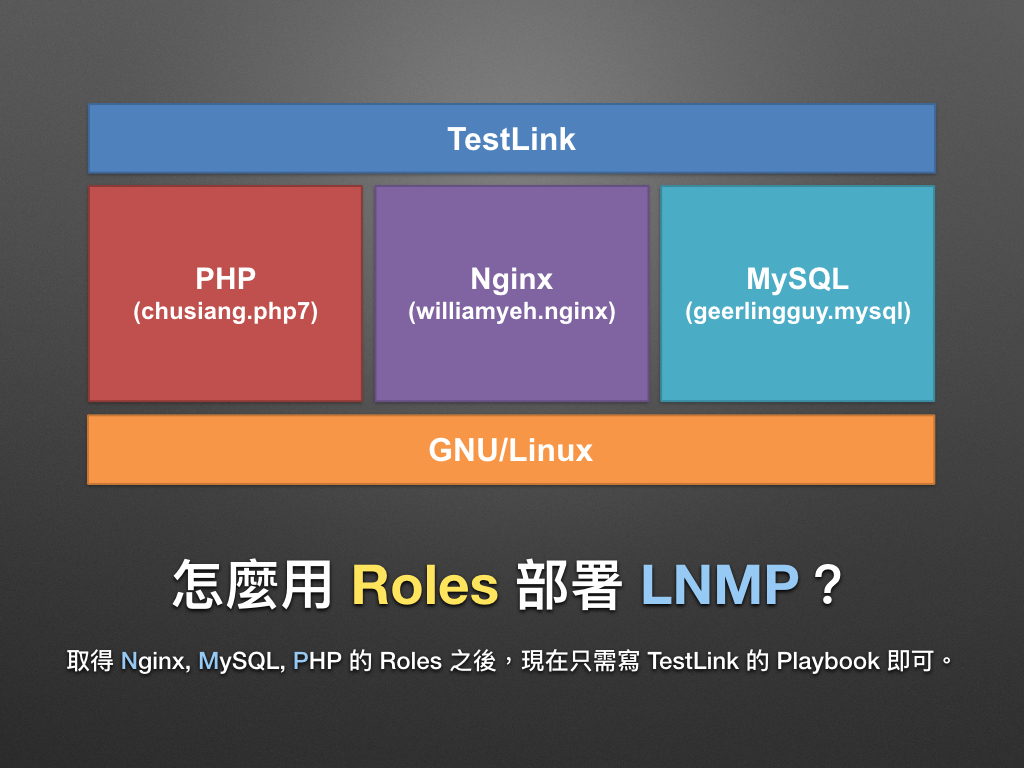
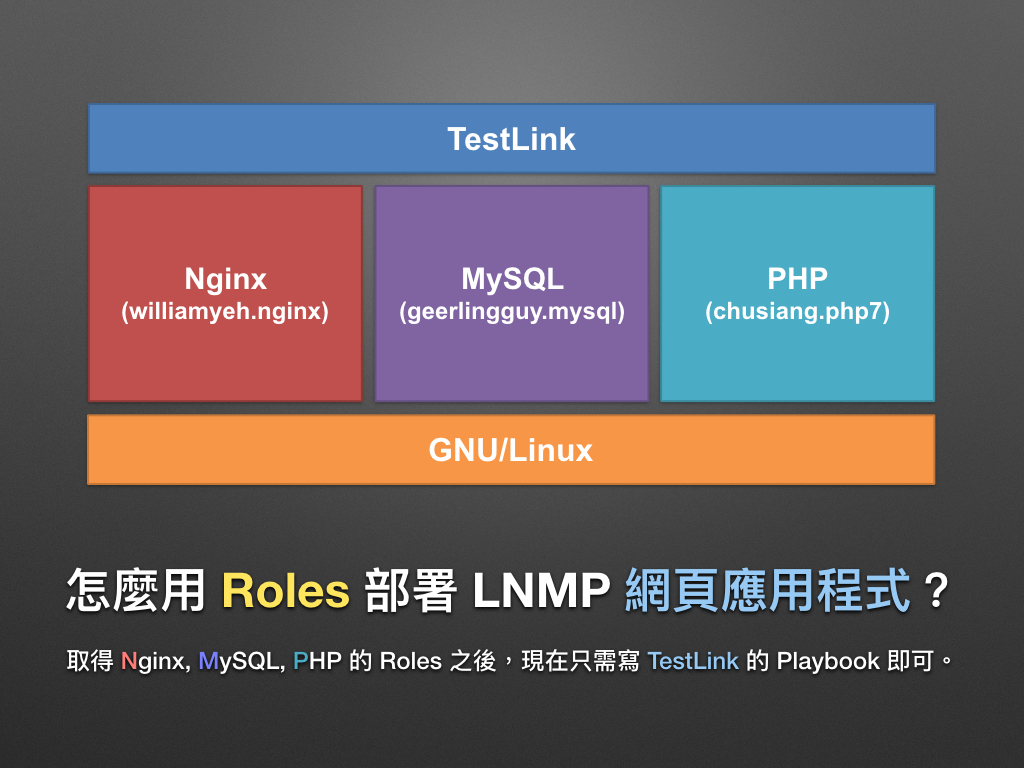
change topic

diff --git a/22.how-to-setup-lnmp-webapp-with-roles-1.md b/22.how-to-setup-lnmp-webapp-with-roles-1.md
@@ -1,8 +1,8 @@
 # 現代 IT 人一定要知道的 Ansible 自動化組態技巧
 
-## 22. 怎麼用 Roles 部署 LNMP？(上)
+## 22. 怎麼用 Roles 部署 LNMP 網頁應用程式？(上)
 
-上一章「[21. 怎麼使用 Roles？](21.how-to-use-the-roles.md)」我們探索了 [Galaxy][ansible_galaxy] (銀河)，並學習了 Roles 的使用方法，接下來凍仁教大家如何用 Roles 部署 TestLink 這套相依於 LNMP 環境的軟體。
+上一章「[21. 怎麼使用 Roles？](21.how-to-use-the-roles.md)」我們探索了 [Galaxy][ansible_galaxy] (銀河)，並學習了 Roles 的使用方法，接下來凍仁教大家如何用 Roles 部署 TestLink 這套相依於 LNMP 環境的網頁應用程式。
 
 > LNMP = Linux + Nginx + MySQL + PHP
 

diff --git a/README.md b/README.md
@@ -34,8 +34,9 @@ Ansible 是個與 Puppet, SaltStack, Chef 並駕齊驅的組態設定 (Infrastru
 1. [如何維護複雜的 Playbooks？](19.how-to-maintain-the-complex-playbooks.md)
 1. [Roles 是什麼？](20.what-is-the-roles.md)
 1. [怎麼使用 Roles？](21.how-to-use-the-roles.md)
-1. [怎麼用 Roles 部署 LNMP？(上)](22.how-to-setup-lnmp-with-roles-1.md)
-1. [怎麼用 Roles 部署 LNMP？(中)](23.how-to-setup-lnmp-with-roles-2.md)
+1. [怎麼用 Roles 部署 LNMP 網頁應用程式？(上)](22.how-to-setup-lnmp-webapp-with-roles-1.md)
+1. [怎麼用 Roles 部署 LNMP 網頁應用程式？(下)](23.how-to-setup-lnmp-webapp-with-roles-2.md)
+
 
 
   > to be continued ...

diff --git a/23.how-to-setup-lnmp-webapp-with-roles-2.md b/23.how-to-setup-lnmp-webapp-with-roles-2.md
@@ -1,6 +1,6 @@
 # 現代 IT 人一定要知道的 Ansible 自動化組態技巧
 
-## 23. 怎麼用 Roles 部署 LNMP？(中)
+## 23. 怎麼用 Roles 部署 LNMP 網頁應用程式？(下)
 
 取得 Nginx, MySQL 和 PHP 的 Roles 後，就剩部署 TestLink 了，接下來就讓凍仁來展示怎麼用 Roles 來**簡化**複雜的 Playbooks 吧！
 
@@ -265,5 +265,5 @@ $ wc -l setup.yml tasks/*
 
 ### 相關連結
 
-- [22. 怎麼用 Roles 部署 LNMP？(上)](22.how-to-setup-lnmp-with-roles-1.md)
+- [22. 怎麼用 Roles 部署 LNMP 網頁應用程式？(上)](22.how-to-setup-lnmp-webapp-with-roles-1.md)
 

diff --git a/SUMMARY.md b/SUMMARY.md
@@ -21,5 +21,5 @@
 1. [如何維護複雜的 Playbooks？](19.how-to-maintain-the-complex-playbooks.md)
 1. [Roles 是什麼？](20.what-is-the-roles.md)
 1. [怎麼使用 Roles？](21.how-to-use-the-roles.md)
-1. [怎麼用 Roles 部署 LNMP？(上)](22.how-to-setup-lnmp-with-roles-1.md)
-1. [怎麼用 Roles 部署 LNMP？(中)](23.how-to-setup-lnmp-with-roles-2.md)
+1. [怎麼用 Roles 部署 LNMP 網頁應用程式？(上)](22.how-to-setup-lnmp-webapp-with-roles-1.md)
+1. [怎麼用 Roles 部署 LNMP 網頁應用程式？(下)](23.how-to-setup-lnmp-webapp-with-roles-2.md)
